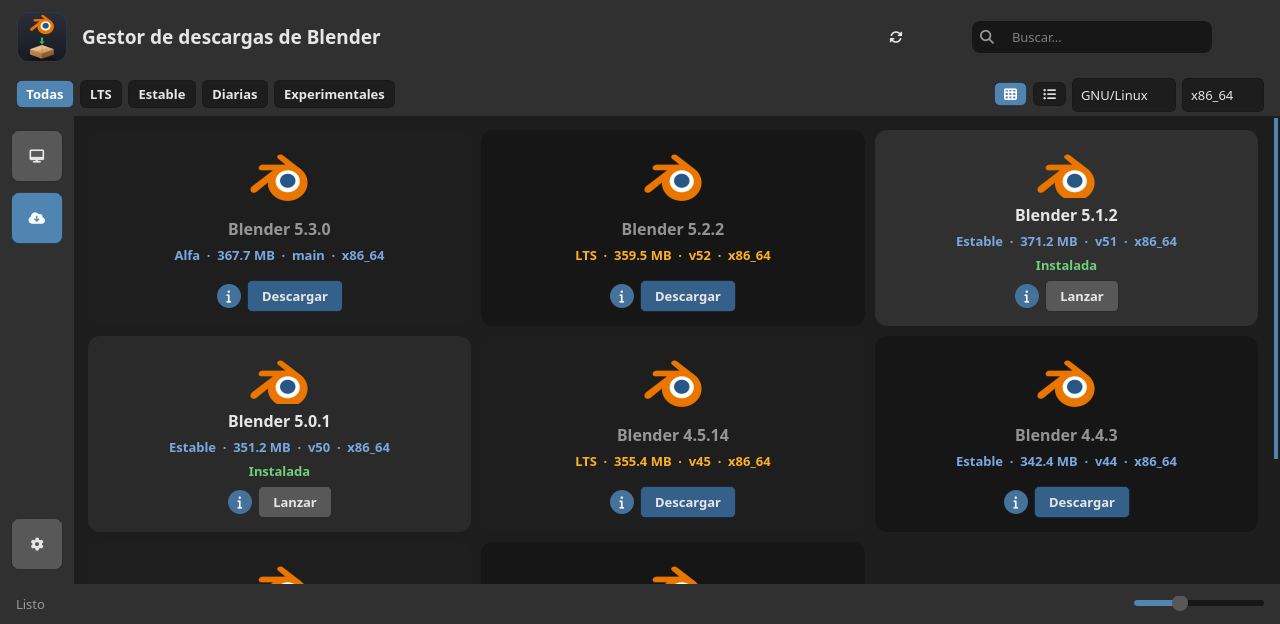
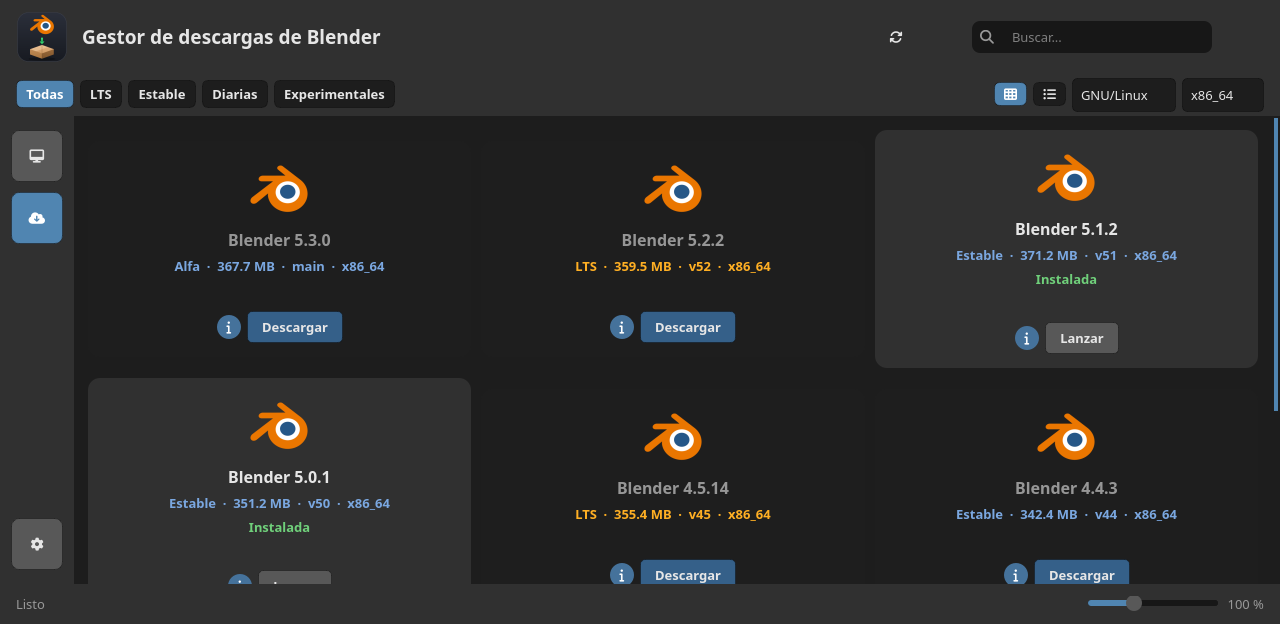
docs: reescribir el README para PySide6 y regenerar las capturas
El README seguia siendo el de Kivy: intro, tabla comparativa, instrucciones de
instalacion (pacman -S python-kivy), la seccion del contenedor Arch y el arbol
del proyecto. Ademas prometia un --watch que ya no existe y hablaba de
pre-releases y de promote.yml, que se eliminaron.

- Intro, tabla y "por que en Linux" ahora cuentan lo contrario que antes: el
  argumento ya no es "no hay Qt con el que pelearse" sino que Qt pinta con el
  motor raster (CPU), asi que no depende de OpenGL/Mesa y el mismo AppImage
  vale en cualquier distro.
- Arranque desde fuente con ./run.sh (crea el .venv con PySide6), tests con el
  plugin offscreen y arbol del proyecto al dia (qss.py, widgets/, sin views/).
- CI: cada push a master publica una release final; sin pre-releases ni
  promote; el modo fuente ya no avisa y el check manual hace git pull.
- La seccion del contenedor Arch pasa a explicar por que ahora es un runner
  Ubuntu 22.04 pelado (raster, sin SDL2) y el unico gotcha que queda: el plugin
  xcb y sus dependencias.
- Capturas regeneradas con la rejilla ya sin cebra y el slider a 100 % (el
  script fijaba el zoom en memoria pero no refrescaba la etiqueta, asi que
  salia "80 %" con las tarjetas a 1.0).

diff --git a/packaging/capture_docs.py b/packaging/capture_docs.py
@@ -40,7 +40,13 @@ def main() -> None:
     window.resize(WIDTH, HEIGHT)
     # El zoom se fija en memoria (sin tocar ajustes) para que la captura sea
     # siempre igual, independientemente de lo que tenga el usuario guardado.
+    # Hay que reflejarlo también en el slider y la etiqueta, o la captura sale
+    # con las tarjetas a un tamaño y el "NN %" de otro.
     window.zoom = 1.0
+    window.zoom_slider.blockSignals(True)
+    window.zoom_slider.setValue(100)
+    window.zoom_slider.blockSignals(False)
+    window._update_zoom_label()
     window.show()
 
     steps = []
@@ -68,7 +74,7 @@ def main() -> None:
     def capture_update():
         dialog = AppDialog(
             window, tr("Update available"),
-            tr("A new version is available: {version}", version="v1.2.32")
+            tr("A new version is available: {version}", version="v1.2.34")
             + "\n\n"
             + tr("It will be installed and the app will restart automatically."))
         dialog.add_button(tr("Later"), on_click=dialog.reject)

diff --git a/README.md b/README.md
@@ -1,19 +1,20 @@
 # Blender Downloads Manager
 
-A desktop app (built with **Python + Kivy**) to **discover, download, organize
-and launch** [Blender](https://www.blender.org/) builds: stable, LTS, daily and
-the official experimental branches. It is cross-platform (Linux, Windows and
-macOS) and designed to be **portable**: once packaged, users don't need to
-install anything.
+A desktop app (built with **Python + PySide6/Qt**) to **discover, download,
+organize and launch** [Blender](https://www.blender.org/) builds: stable, LTS,
+daily and the official experimental branches. It is cross-platform (Linux,
+Windows and macOS) and designed to be **portable**: once packaged, users don't
+need to install anything.
 
 ![Grid view](https://cdn.jsdelivr.net/gh/zebus3d/BlenderManager@master/docs/img/store_grid.png)
 
 ## Features
 
-- **Build store** with cards and icons, channel filters (LTS, Stable, LTS + Stable,
-  Daily, Experimental) and search by version or branch.
+- **Build store** with cards and icons, channel filters (LTS, Stable, Daily,
+  Experimental) and search by version or branch.
 - **Grid or list view**, with a **zoom slider** to choose the icon size
-  (Dolphin-style).
+  (Dolphin-style). `Ctrl +` / `Ctrl -` change it from the keyboard and `Ctrl 0`
+  (or `Ctrl` + click on the slider) goes back to the default size.
 - **Automatic detection** of your operating system and architecture.
 - **Download for another platform or architecture**: pick Windows, macOS or ARM64
   in the filter bar to grab a build for a friend or a USB stick, not just for the
@@ -23,7 +24,8 @@ install anything.
   published as `.dmg`, which is not extracted: the app downloads it, reveals it
   in Finder and tells you to open it.
 - **Installed versions**: launch or uninstall them from the app. The filters and
-  search apply to them too, and they are highlighted in the store.
+  search apply to them too, and they are highlighted in the store so you can tell
+  at a glance what you already have.
 - **Blender runs detached**: closing the manager does **not** close the Blender
   instances you launched from it.
 - **Release notes one click away**: every build card has a small blue **i** that
@@ -42,18 +44,18 @@ install anything.
 ## A small, readable codebase
 
 Beyond being a useful tool, this project is meant to be **read and learned
-from**. It is a complete desktop application in about 4,000 lines of Python and
-Kivy, split into clear layers:
+from**. It is a complete desktop application in about 4,000 lines of Python,
+split into clear layers:
 
 - **`model/`** — plain data classes (`Build`, `InstalledBuild`).
 - **`services/`** — the real work (API, downloads, extraction, settings...).
-  They know nothing about Kivy, so they can be tested without a window.
-- **`ui/` + `views/`** — the interface. `.kv` files describe how things *look*;
-  Python describes what they *do*.
+  They know nothing about Qt, so they can be tested without a window.
+- **`ui/`** — the interface. `ui/qss.py` is a single Qt stylesheet that holds the
+  whole look; `ui/widgets/` holds the behaviour.
 
-If you are learning Python or Kivy, start with the guides in
-[`doc/`](doc/README.md) (in Spanish): they walk through the architecture, the
-Kivy concepts used, the design system and a full worked example of adding a new
+If you are learning Python or Qt, start with the guides in
+[`doc/`](doc/README.md) (in Spanish): they walk through the architecture, the Qt
+concepts used, the design system and a full worked example of adding a new
 feature. The code comments are in Spanish (Spain) and explain not just *what*
 each part does, but *why* the decisions were made.
 
@@ -72,12 +74,12 @@ to have as little friction as possible, particularly on Linux.
 
 | | **Blender Manager** | **Blender Launcher V2** |
 |---|---|---|
-| UI toolkit | Kivy (no Qt) | Qt-based |
+| UI toolkit | Qt Widgets (PySide6) | Qt-based |
 | Focus | Official builds only | Official builds, forks and experimental branches |
 | Views | Grid **and** list, with a zoom slider | Library / downloads pages |
 | Languages | English and Spanish | English |
-| Linux download | One AppImage (~50 MB) | Two Linux zips (~95-107 MB), pick the right one |
-| Running from source | System Python + Kivy | Python + PySide/Qt dependencies |
+| Linux download | One AppImage (~70 MB) | Two Linux zips (~95-107 MB), pick the right one |
+| Running from source | Python + PySide6 | Python + PySide/Qt dependencies |
 
 > A note on **experimental branches**: both apps use the same endpoint
 > (`builder.blender.org/download/experimental/`). Blender has barely published
@@ -86,16 +88,16 @@ to have as little friction as possible, particularly on Linux.
 
 ### Why it may suit you better on Linux
 
-- **One file, no install.** `BlenderManager-x86_64.AppImage` (~50 MB) is the
+- **One file, no install.** `BlenderManager-x86_64.AppImage` (~70 MB) is the
   whole app. Blender Launcher V2 ships two different Linux zips (`Linux_x64` and
   `Ubuntu_x64`, ~95-107 MB) and you have to know which one matches your system.
-- **No Qt to fight with.** Kivy renders with OpenGL and carries its own widgets,
-  so there is no Qt platform plugin to install, no `qt.qpa.plugin` error and no
-  mismatch between the bundled Qt and the system one — the classic reason a Qt
-  app refuses to open on Arch or on an older Ubuntu.
-- **Runs from source with the system Python.** `python3 src/main.py` needs only
-  Kivy (`sudo pacman -S python-kivy`); everything else is the standard library.
-  No virtualenv, no compiled dependencies, no lockfile.
+- **Nothing to fight with on the graphics side.** Qt Widgets paints with its
+  **raster engine (CPU)**, so the app does not touch OpenGL: no Mesa version to
+  match, no `No matching FB config found` on a modern Wayland session, and the
+  same AppImage works on Arch and on an older Ubuntu.
+- **Runs from source with a virtualenv.** `./run.sh` creates it and launches the
+  app; the only dependency is PySide6. Downloads, extraction and the Blender API
+  use the standard library.
 - **Updates the way you installed it.** The AppImage replaces itself and
   restarts; a git checkout runs `git pull --ff-only` and restarts. Either way you
   never go back to the browser to update.
@@ -103,36 +105,23 @@ to have as little friction as possible, particularly on Linux.
 
 ## Running from source
 
-Requirements: **Python 3.12 or newer** and **Kivy**. Nothing else is needed:
-downloads, extraction and the Blender API use the standard library.
-
-### 1. Get the code
+Requirements: **Python 3.12 or newer**. The only dependency is **PySide6**, which
+is installed for you by the launcher script:
 
 ```bash
 git clone https://github.com/zebus3d/BlenderManager.git
 cd BlenderManager
+./run.sh
 ```
 
-### 2. Install Kivy
-
-**Arch Linux** (recommended: Kivy compiled for the system Python):
-
-```bash
-sudo pacman -S python-kivy
-```
-
-**Other Linux distros, Windows or macOS** (virtual environment):
+`run.sh` creates `.venv` on first run and installs `requirements.txt`
+(PySide6-Essentials) into it. To do it by hand:
 
 ```bash
 python3 -m venv .venv
 source .venv/bin/activate        # Windows: .venv\Scripts\activate
 pip install -r requirements.txt
-```
-
-### 3. Launch the app
-
-```bash
-python3 src/main.py
+python src/main.py
 ```
 
 The build store opens on start. The **first time**, if you already have installed
@@ -140,21 +129,14 @@ builds in the destination folder, it opens on the **Installed** tab; otherwise i
 opens the **Store**. The default destination is `~/Descargas/Blenders` (change it
 in **Settings**).
 
-> If you use a virtual environment, activate it first
-> (`source .venv/bin/activate`) and use `python` instead of `python3`.
-
 ### Command-line options
 
 ```bash
-python3 src/main.py                     # open the UI
-python3 src/main.py --debug             # UI with verbose logging
-python3 src/main.py --smoke             # list builds in the console (no window)
-python3 src/main.py --watch             # hot-reload .kv/theme on save (development)
-python3 src/main.py --screenshot r.png  # start, save a screenshot and quit
+python src/main.py                     # open the UI
+python src/main.py --debug             # UI with verbose logging
+python src/main.py --smoke             # list builds in the console (no window)
+python src/main.py --screenshot r.png  # start, save a screenshot and quit
 ```
-
-`--watch` is very handy while tweaking the interface: save a `.kv` file and the
-window updates itself, without restarting.
 
 ## Portable mode
 
@@ -165,11 +147,13 @@ in that same folder instead of the user's config directory.
 ## Tests
 
 ```bash
-python3 -m unittest discover -t . -s tests -v
+QT_QPA_PLATFORM=offscreen .venv/bin/python -m unittest discover -t . -s tests
 ```
 
-The tests run without a window and cover the data model and the services (API
-filtering, safe extraction, settings, updates...).
+The UI tests run with Qt's **offscreen** plugin, so they need no display (that is
+what CI uses too). They cover the data model, the services (API filtering, safe
+extraction, settings, updates) and the window logic that can be checked without a
+screen: filters, grid columns, zoom and the dialogs.
 
 ## Packaging
 
@@ -188,72 +172,80 @@ packaging/build.sh --appimage  # also produces dist/BlenderManager-x86_64.AppIma
 `.github/workflows/build.yml` runs the tests and produces artifacts for **Linux**
 (`.AppImage`), **Windows** (`.zip`) and **macOS** (compressed `.app`).
 
-- On every push to `master` it publishes a **pre-release** with a per-build
-  version (e.g. `v1.1.42`), so every compilation is downloadable from Releases.
-- `.github/workflows/promote.yml` turns a pre-release into the **stable Release**
-  with one click (Actions → *promote* → *Run workflow*). It reuses the binaries
-  that were already built and verified, so the version baked into them keeps
-  matching the tag.
-- Pushing a `vX.Y.Z` tag also publishes a **stable Release**, rebuilding the
-  binaries with that version.
-- Only stable releases trigger the in-app auto-update, because the app checks
-  `.../releases/latest`, which ignores pre-releases.
-- When running from source, the in-app update runs `git pull --ff-only` on a
-  clean checkout and restarts the app instead of downloading a binary.
+- **Every push to `master` publishes a final release** with a per-build version
+  (e.g. `v1.2.34`), marked as *latest*. There is no pre-release channel and no
+  promotion step: each commit is a release.
+- The in-app auto-update only looks at the *latest* release, so it fires on the
+  next launch after every push. That is intentional.
+- Pushing a `vX.Y.Z` tag publishes a release with that exact version. Never
+  re-tag binaries that were built for another version: the version is baked into
+  the executable, so the app would update itself in a loop.
+- **Running from source never prompts for an update**: a checkout is ahead of the
+  last tag by definition, so comparing it with the latest release would offer to
+  "update" to a binary that may be older than the code you are running. The title
+  shows the real state of the checkout (`1.2.0-19-g24a0b43`), and
+  **Settings → Check for updates now** runs `git pull --ff-only` and restarts.
 
 The binaries are **not** committed to the repository; they are downloadable from
 the Release (or from the workflow run).
 
-#### Why the Linux build runs in an Arch container
+#### Why the Linux build is a plain Ubuntu 22.04 job
 
-The `linux:` job runs on `runs-on: ubuntu-22.04` but inside a container
-`archlinux:latest` (with `--privileged`). This is **intentional and not a typo**:
-
-Kivy 2.3.1's pip wheel bundles `Kivy.libs/libSDL2-2-d9872e50.0.so.0.3000.7`
-(SDL2 2.30.0.7). That SDL2 has a known incompatibility with Mesa 26 + Wayland:
-on a Wayland session running through Xwayland, it asks GLX for a config with
-`DRAWABLE_TYPE=WINDOW` and `STENCIL=8`, and gets 0 results, producing this
-error on launch:
+Earlier versions of this app used **Kivy**, which renders through OpenGL via
+SDL2. Its bundled SDL2 asked Xwayland for a framebuffer config with `STENCIL=8`
+and got zero results on **Mesa 25/26** (Linux Mint 22, Arch/CachyOS), so the
+window never opened:
 
 ```
 Window: Provider: sdl2
-Window: Provider: x11(['window_sdl2'] ignored)
 No matching FB config found
 ```
 
-Arch Linux's `python-kivy` package is built against the **system SDL2 2.32+**,
-which knows how to fall back to EGL on Wayland and works in both X11 and
-Wayland. So we install Kivy via `pacman -S python-kivy` (system package, ABI
-matches the system SDL2) and only pull `pyinstaller` from pip. The trade-off is
-that PyInstaller bundles the system graphics libs (`libGL`, `libEGL`,
-`libwayland-*`, glslang, gstgl, glycin...) alongside SDL2, so the resulting
-AppImage is **~170 MB** instead of the ~50 MB it would be on Ubuntu.
+Building against Arch's system SDL2 2.32 worked around it, but PyInstaller then
+bundled the whole graphics stack and the AppImage grew to ~170 MB.
 
-This workaround is necessary until [Kivy 3.0 ships with SDL3](https://github.com/kivy/kivy/milestones)
-(milestone due January 2027). When that happens, revert to plain Ubuntu +
-`pip install kivy==3.0` and remove the `container:` block. The full reasoning,
-including a reproducible validation recipe with `podman`, is documented in
-`AGENTS.md` under "CI en contenedor Arch".
+The UI now runs on **Qt Widgets**, which paints with the **raster engine (CPU)**
+by default: no OpenGL, no Mesa version to match, nothing to bundle. So the job is
+a plain `ubuntu-22.04` runner, with no container and no SDL2 step.
+
+The one thing that still has to be right is the Qt `xcb` platform plugin: Qt
+loads it even when it renders on the CPU, and its dependencies must be installed
+**on the runner** so PyInstaller bundles them. If they are missing, the AppImage
+dies on the user's machine with:
+
+```
+qt.qpa.plugin: Could not load the Qt platform plugin "xcb"
+```
+
+The job installs `libxcb-icccm4`, `libxcb-image0`, `libxcb-keysyms1`,
+`libxcb-randr0`, `libxcb-render-util0`, `libxcb-shape0`, `libxcb-xinerama0`,
+`libxcb-xkb1`, `libxkbcommon-x11-0` and `libxcb-cursor0` (the last one is
+required since Qt 6.5).
 
 If you change the CI Linux job:
 
-1. Build the AppImage locally with `podman` (or the actual container image the
-   CI uses) and verify it opens on a recent KDE Plasma / GNOME Wayland session
-   before pushing.
-2. Check that the resulting `dist/BlenderManager-x86_64.AppImage` is between
-   150 MB and 200 MB (lower means a graphics lib wasn't bundled; higher means
-   you bundled too much).
-3. Make sure `packaging/inject_version.py` was called **before** PyInstaller
-   with the same version the release tag carries — otherwise auto-update will
-   detect a mismatch and loop. The CI workflow does this in step "Inyectar
-   version".
+1. Build the AppImage locally and verify it runs on a recent KDE Plasma / GNOME
+   Wayland session before pushing.
+2. Check that `ldd dist/BlenderManager/_internal/PySide6/Qt/plugins/platforms/libqxcb.so
+   | grep "not found"` prints nothing.
+3. Check the AppImage is around 70 MB (much smaller means a plugin dependency was
+   left out; much bigger means something unnecessary got bundled).
+4. Make sure `packaging/inject_version.py` was called **before** PyInstaller with
+   the same version the release tag carries — otherwise auto-update will detect a
+   mismatch and loop. The CI workflow does this in the "Inyectar version" step.
+
+The full reasoning, with the reproducible `podman` validation recipe, is in
+`AGENTS.md`.
 
 ## Linux requirements
 
 Building on `ubuntu-22.04` means the portable binary needs **glibc 2.35 or
-higher**. The **AppImage** needs nothing installed, although on systems without
-`libfuse2` you have to run it with `--appimage-extract-and-run` (on Arch:
-`sudo pacman -S fuse2`).
+higher** (Ubuntu 22.04+, Debian 12+, Mint 21/22, Fedora 36+, Arch). PySide6
+itself only asks for glibc 2.34, so the floor is set by the embedded Python.
+
+The **AppImage** needs nothing installed, although on systems without `libfuse2`
+you have to run it with `--appimage-extract-and-run` (on Arch: `sudo pacman -S
+fuse2`).
 
 ## Project structure
 
@@ -261,9 +253,10 @@ higher**. The **AppImage** needs nothing installed, although on systems without
 src/
   main.py            # entry point and arguments
   paths.py           # paths (source vs. packaged)
+  version.py         # __version__ (the CI rewrites it from the tag)
   i18n.py            # English/Spanish translations
   model/build.py     # data model (Build, InstalledBuild)
-  services/
+  services/          # UI-independent (imports no Qt):
     api.py           # queries and caches Blender's JSON API
     detector.py      # operating system and architecture
     settings.py      # persistent settings and portable mode
@@ -271,29 +264,32 @@ src/
     extractor.py     # safe tar/zip extraction
     installed.py     # scans installed versions
     launcher.py      # launches Blender (detached process)
-    updater.py       # checks and applies updates
+    updater.py       # checks and applies updates (binary or git pull)
   ui/
-    theme.py         # palette, colors and icon font
+    qss.py           # the whole look: one Qt stylesheet
+    theme.py         # colour tokens (measured WCAG contrast)
     icons.py         # Font Awesome glyphs
-    tooltip.py       # tooltip / hover system
-    widgets/         # Python widgets, split by topic:
-                     #   basic, spinners, dialogs, cards, root (controller)
-  views/             # declarative UI (Kivy Language), one .kv per group:
-                     #   widgets.kv, dialogs.kv, cards.kv, main.kv
+    fonts.py         # icon font loading / glyph_icon()
+    widgets/         # buttons, cards, dialogs and the main window
   assets/            # Blender logo, app icon and icon font
 doc/                 # architecture guide in Spanish (start at doc/README.md)
-tests/               # unit tests (unittest)
+tests/               # unit tests (unittest, UI with Qt's offscreen plugin)
 packaging/           # PyInstaller spec, AppImage script and .desktop
+run.sh               # development launcher (creates .venv if missing)
 dist/                # build output (binaries ignored by git)
 ```
 
 ## Credits
 
-This project finishes two earlier attempts of mine (`BlenderDownloader` in Qt and
+This project finishes earlier attempts of mine (`BlenderDownloader` in Qt and
 `BlenderManager` in Kivy) and is inspired by
 [Blender Launcher V2](https://github.com/Victor-IX/Blender-Launcher-V2): the idea
 of using Blender's JSON API and the LTS version map comes from it, which avoids
 the fragile scraping of the first versions.
+
+The Kivy version worked, but its OpenGL/SDL2 requirement meant a different
+combination of Mesa and SDL2 for every distro; the UI was ported to Qt Widgets
+for that reason alone (see "Why the Linux build is a plain Ubuntu 22.04 job").
 
 The Blender logo is a trademark of the [Blender Foundation](https://www.blender.org/).
 Icons are from [Font Awesome Free](https://fontawesome.com/) (SIL OFL 1.1).
